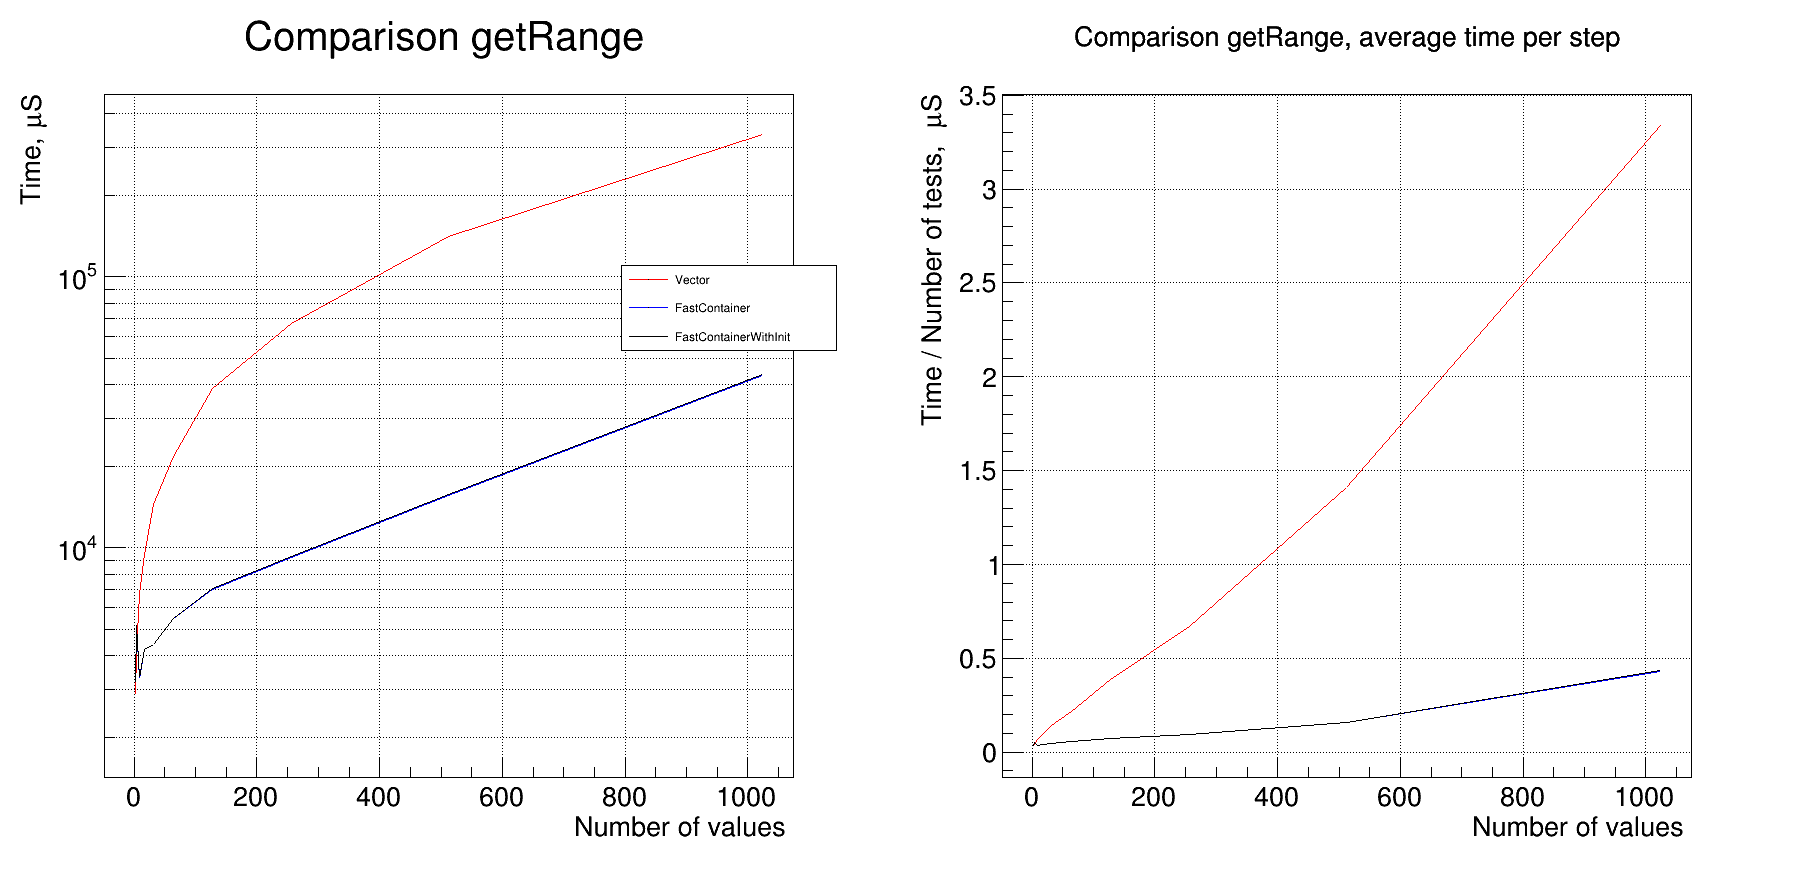
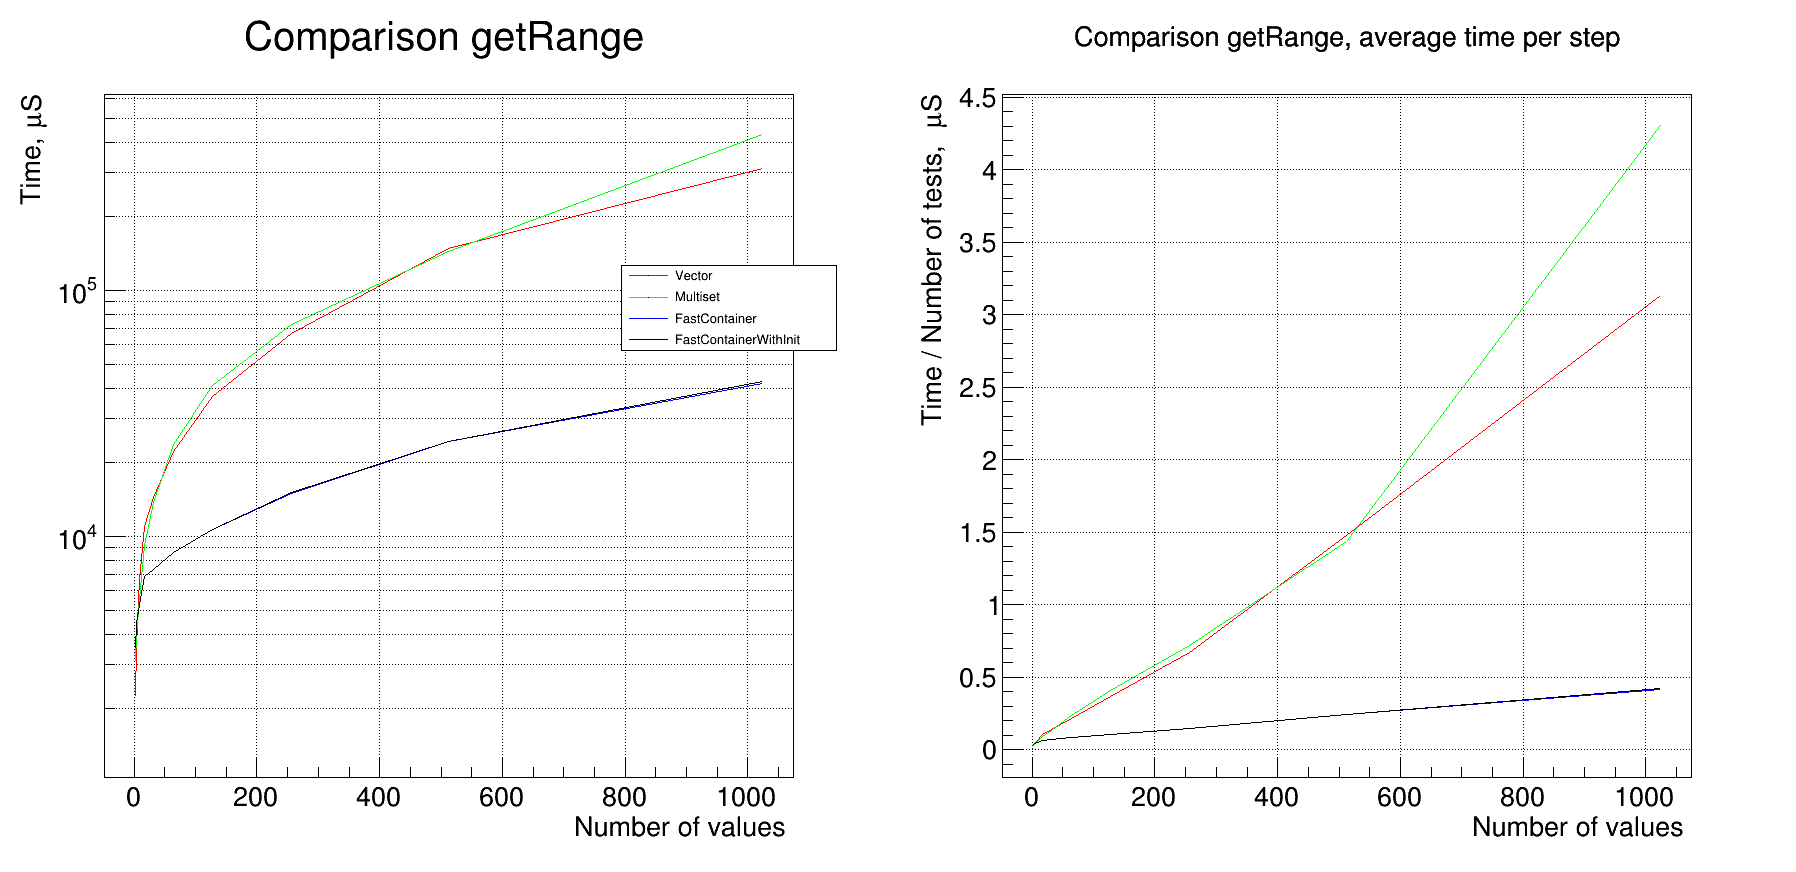
Fix bug

diff --git a/test.cpp b/test.cpp
@@ -207,10 +207,10 @@ void testRanges(bool verbose)
     gr_std->SetName("gr_std");
     gr_std->SetTitle("Vector");
     gr_std->SetLineColor(kRed);
-    //TGraph* gr_set = new TGraph(); 
-    //gr_set->SetName("gr_set");
-    //gr_set->SetTitle("Set");
-    //gr_set->SetLineColor(kGreen);
+    TGraph* gr_set = new TGraph(); 
+    gr_set->SetName("gr_multiset");
+    gr_set->SetTitle("Multiset");
+    gr_set->SetLineColor(kGreen);
     TGraph* gr_fast = new TGraph(); 
     gr_fast->SetName("gr_fast");
     gr_fast->SetTitle("FastContainer");
@@ -224,10 +224,10 @@ void testRanges(bool verbose)
     gr_dens_std->SetName("gr_dens_std");
     gr_dens_std->SetTitle("Vector");
     gr_dens_std->SetLineColor(kRed);
-    //TGraph* gr_dens_set = new TGraph(); 
-    //gr_dens_set->SetName("gr_dens_set");
-    //gr_dens_set->SetTitle("Set");
-    //gr_dens_set->SetLineColor(kGreen);
+    TGraph* gr_dens_set = new TGraph(); 
+    gr_dens_set->SetName("gr_dens_multiset");
+    gr_dens_set->SetTitle("Multiset");
+    gr_dens_set->SetLineColor(kGreen);
     TGraph* gr_dens_fast = new TGraph(); 
     gr_dens_fast->SetName("gr_dens_fast");
     gr_dens_fast->SetTitle("FastContainer");
@@ -275,25 +275,32 @@ void testRanges(bool verbose)
         auto durationStd = std::chrono::duration_cast<std::chrono::microseconds>(stopStd - startStd);
         if (verbose) std::cout << "Standart duration: " << durationStd.count() << ", muSec" << std::endl;
 
-        //auto startSet = std::chrono::high_resolution_clock::now();
-        //auto comp = [](const std::pair<int, double>& lhs, const std::pair<int, double>& rhs)
-        //{
-        //    return lhs.second < rhs.second;
-        //};
-        //std::set<std::pair<int, double>, decltype(comp)> tmp_set (vec.begin(), vec.end(), comp);
+        auto startSet = std::chrono::high_resolution_clock::now();
+        auto comp = [](const std::pair<int, double>& lhs, const std::pair<int, double>& rhs)
+        {
+            return lhs.second < rhs.second;
+        };
+        std::set<std::pair<int, double>, decltype(comp)> tmp_multiset (vec.begin(), vec.end(), comp);
 
-        //std::vector<int> resSet;
-        //resSet.reserve(testN);
-        //for (const auto& elem: test)
-        //{
-        //    auto it = tmp_set.lower_bound({0, elem});
-        //    auto pit = std::prev(it);
-        //    double res = it->second - elem < elem - pit->second ? it->first : pit->first;
-        //    resSet.push_back(res);
-        //}
-        //auto stopSet = std::chrono::high_resolution_clock::now();
-        //auto durationSet = std::chrono::duration_cast<std::chrono::microseconds>(stopSet - startSet);
-        //std::cout << "Standart duration: " << durationSet.count() << ", muSec" << std::endl;
+        std::vector<std::vector<int>> resSet;
+        resSet.reserve(testN);
+        for (int i=0; i<testN-1; ++i)
+        {
+            // simple
+            double low = std::min(test[i], test[i+1]);
+            double up = std::max(test[i], test[i+1]);
+
+            const auto lit = tmp_multiset.lower_bound({0, low});
+            const auto uit = tmp_multiset.upper_bound({0, up});
+            std::vector<int> tmp;
+            tmp.reserve(std::distance(lit, uit)+1);
+            std::for_each(lit, uit, [&tmp](const auto& v){ tmp.push_back(v.first); });
+            
+            resSet.push_back(tmp);
+        }
+        auto stopSet = std::chrono::high_resolution_clock::now();
+        auto durationSet = std::chrono::duration_cast<std::chrono::microseconds>(stopSet - startSet);
+        if (verbose) std::cout << "Standart duration: " << durationSet.count() << ", muSec" << std::endl;
 
         // TEST NEW SOLUTION
         // fill fast container
@@ -309,8 +316,8 @@ void testRanges(bool verbose)
             double low = std::min(test[i], test[i+1]);
             double up = std::max(test[i], test[i+1]);
             const auto& [fit, lit] = fc.getIdsInRange(low, up);
-            auto v = std::vector<int>(fit, lit);
-            resF.push_back(v);
+            auto tmp = std::vector<int>(fit, lit);
+            resF.push_back(tmp);
         }
         auto stopF = std::chrono::high_resolution_clock::now();
         auto durationF = std::chrono::duration_cast<std::chrono::microseconds>(stopF - startF);
@@ -322,11 +329,11 @@ void testRanges(bool verbose)
         }
 
         gr_std->AddPoint(N, durationStd.count());
-        //gr_set->AddPoint(N, durationSet.count());
+        gr_set->AddPoint(N, durationSet.count());
         gr_fast->AddPoint(N, durationF.count());
         gr_fast_with_init->AddPoint(N, durationCreation.count());
         gr_dens_std->AddPoint(N, durationStd.count() * 1./testN);
-        //gr_dens_set->AddPoint(N, durationSet.count() * 1./testN);
+        gr_dens_set->AddPoint(N, durationSet.count() * 1./testN);
         gr_dens_fast->AddPoint(N, durationF.count() * 1./testN);
         gr_dens_fast_with_init->AddPoint(N, durationCreation.count() * 1./testN);
 
@@ -341,22 +348,44 @@ void testRanges(bool verbose)
             std::cout << "Different sizes" << std::endl;
         for (int i = 0; i < testN-1; i++)
         {
+            bool flag1 = true;
+            bool flag2 = true;
             if (resStd.at(i).size() == resF.at(i).size())
             {
-                bool flag1 = std::any_of(resStd.at(i).begin(), resStd.at(i).end(),
+                flag1 = std::any_of(resStd.at(i).begin(), resStd.at(i).end(),
                     [&resF, i](const int v){return std::find(resF.at(i).begin(), resF.at(i).end(), v) == resF.at(i).end();});
                 
-                bool flag2 = std::any_of(resF.at(i).begin(), resF.at(i).end(),
+                flag2 = std::any_of(resF.at(i).begin(), resF.at(i).end(),
                     [&resStd, i](const int v){return std::find(resStd.at(i).begin(), resStd.at(i).end(), v) == resStd.at(i).end();});
 
                 if (!flag1 && !flag2)
                     continue;
+                
+                std::cout << i << "Error: " << flag1 << " " << flag2 << std::endl; 
             }
+            else
+                std::cout << i << " Different size: " << resStd.at(i).size() << " " << resF.at(i).size() << std::endl; 
 
-            //std::cout << "Opa: " << i << std::endl; 
-            //std::cout << test.at(i) << " \t" << resStd.at(i) << " " << vec.at(resStd.at(i)).second  << "\t" << test.at(i) - vec.at(resStd.at(i)).second << std::endl;
-            //std::cout << "\t\t" << resF.at(i) << " " << vec.at(resF.at(i)).second << "\t" << test.at(i) - vec.at(resF.at(i)).second << std::endl;
-            //std::cout << fc.getClosestId(test.at(i))[0] << std::endl;
+            double low = std::min(test[i], test[i+1]);
+            double up = std::max(test[i], test[i+1]);
+            std::cout << "lowerZ: " << low << " upperZ: " << up << std::endl;
+            std::cout << "Print input: ";
+            std::for_each(vec.begin(), vec.end(), [](const auto& v){std::cout << v.first << "-" << v.second << " ";});
+            std::cout << std::endl;
+            std::cout << "Print std: ";
+            std::for_each(resStd.at(i).begin(), resStd.at(i).end(), [](const auto& v){std::cout << v << " ";});
+            std::cout << std::endl;
+            
+            std::cout << "Print fast: ";
+            std::for_each(resF.at(i).begin(), resF.at(i).end(), [](const auto& v){std::cout << v << " ";});
+            std::cout << std::endl;
+
+            fc.getIdsInRange(low, up);
+
+            int l;
+            std::cin >> l;
+
+            break;
         }
     }
 
@@ -368,7 +397,7 @@ void testRanges(bool verbose)
     c->cd(1);
     TMultiGraph* mg = new TMultiGraph("mg", "Comparison getRange");
     mg->Add(gr_std);
-    //mg->Add(gr_set);
+    mg->Add(gr_set);
     mg->Add(gr_fast);
     mg->Add(gr_fast_with_init);
     mg->GetXaxis()->SetTitle("Number of values");
@@ -377,7 +406,7 @@ void testRanges(bool verbose)
 
     TLegend* legend = new TLegend(0.7, 0.6, 0.95, 0.7);
     legend->AddEntry("gr_std");
-    //legend->AddEntry("gr_set");
+    legend->AddEntry("gr_multiset");
     legend->AddEntry("gr_fast");
     legend->AddEntry("gr_fast_with_init");
     legend->Draw();
@@ -386,7 +415,7 @@ void testRanges(bool verbose)
     c->cd(2);
     TMultiGraph* mg_dens = new TMultiGraph("mg_dens", "Comparison getRange, average time per step");
     mg_dens->Add(gr_dens_std);
-    //mg_dens->Add(gr_dens_set);
+    mg_dens->Add(gr_dens_set);
     mg_dens->Add(gr_dens_fast);
     mg_dens->Add(gr_dens_fast_with_init);
     mg_dens->GetXaxis()->SetTitle("Number of values");
@@ -399,6 +428,6 @@ void testRanges(bool verbose)
 int main()
 {
     testNearest(false);
-    testRanges(true);
+    testRanges(false);
     return 0;
 }

diff --git a/include/FastContainer.h b/include/FastContainer.h
@@ -12,7 +12,7 @@ class FastStructure
 private:
   static const int _maxsize = 5;
   int _size;
-  std::array<std::pair<int, int>, _maxsize> _indices_pos;
+  std::array<std::pair<int, int>, _maxsize> _indices_pos; // first and last index
   std::array<T, _maxsize> _values;
   int _lID = -1;
   int _rID = -1;
